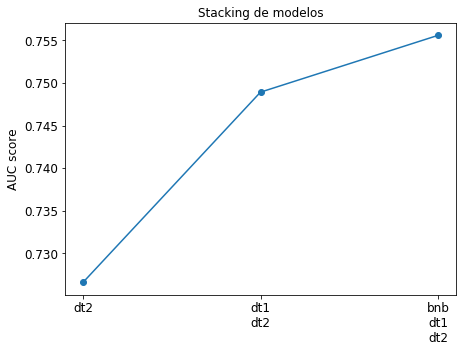
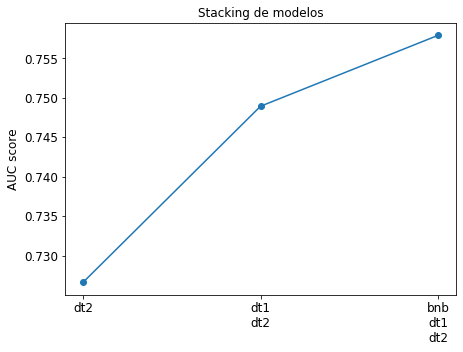
Small fix

diff --git a/python/modelos.py b/python/modelos.py
@@ -1,7 +1,6 @@
 from sklearn.compose import ColumnTransformer
 from sklearn.feature_extraction.text import CountVectorizer
 from sklearn.feature_selection import chi2, SelectPercentile
-from sklearn.model_selection import GridSearchCV
 from sklearn.naive_bayes import BernoulliNB
 from sklearn.pipeline import Pipeline
 from sklearn.preprocessing import OrdinalEncoder, StandardScaler
@@ -20,7 +19,7 @@ def clf_bnb(X, y):
     )
     selector = SelectPercentile(
         score_func=chi2,
-        percentile=5
+        percentile=3
     )
     bnb = Pipeline([
         ('vec', vectorizer),
@@ -80,7 +79,7 @@ def clf_dt2(X, y):
     )
     dt2 = Pipeline([
         ('ctr', ctr),
-        ('dt1', DecisionTreeClassifier(max_depth=5))
+        ('dt2', DecisionTreeClassifier(max_depth=5))
     ])
     dt2.fit(X, y)
     return dt2
